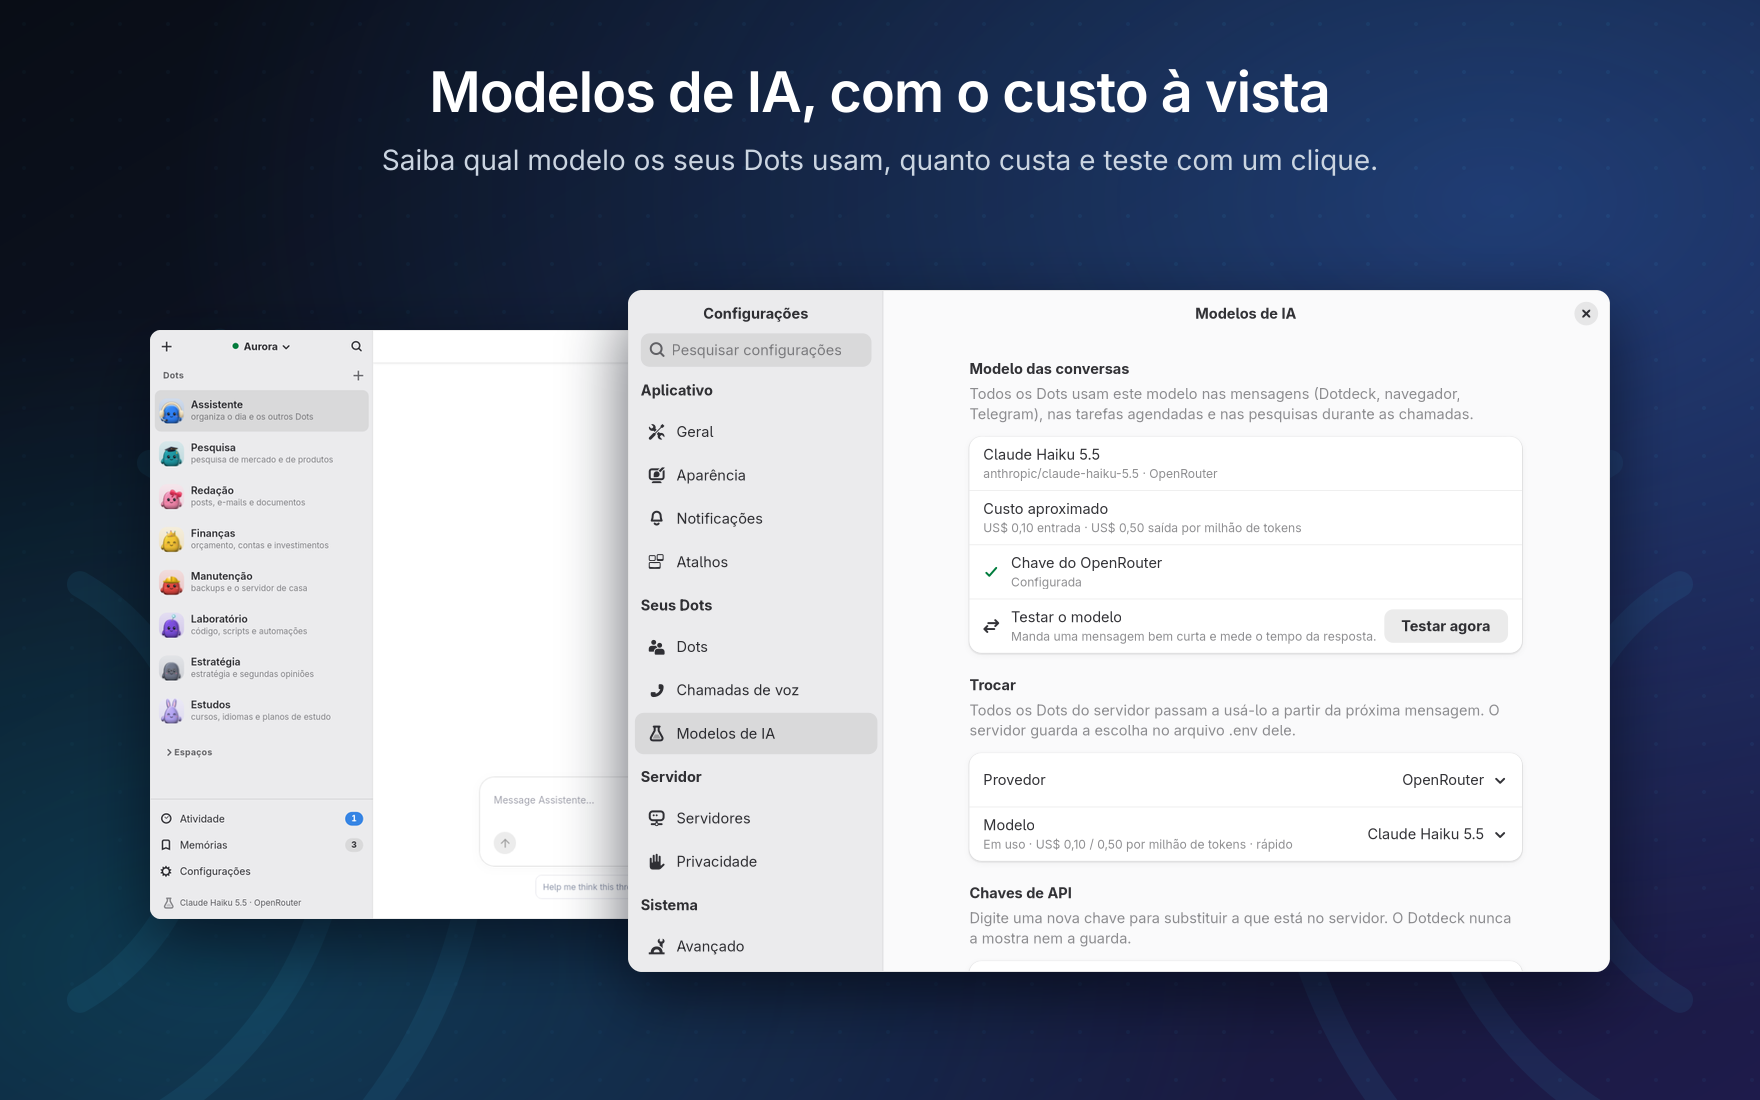
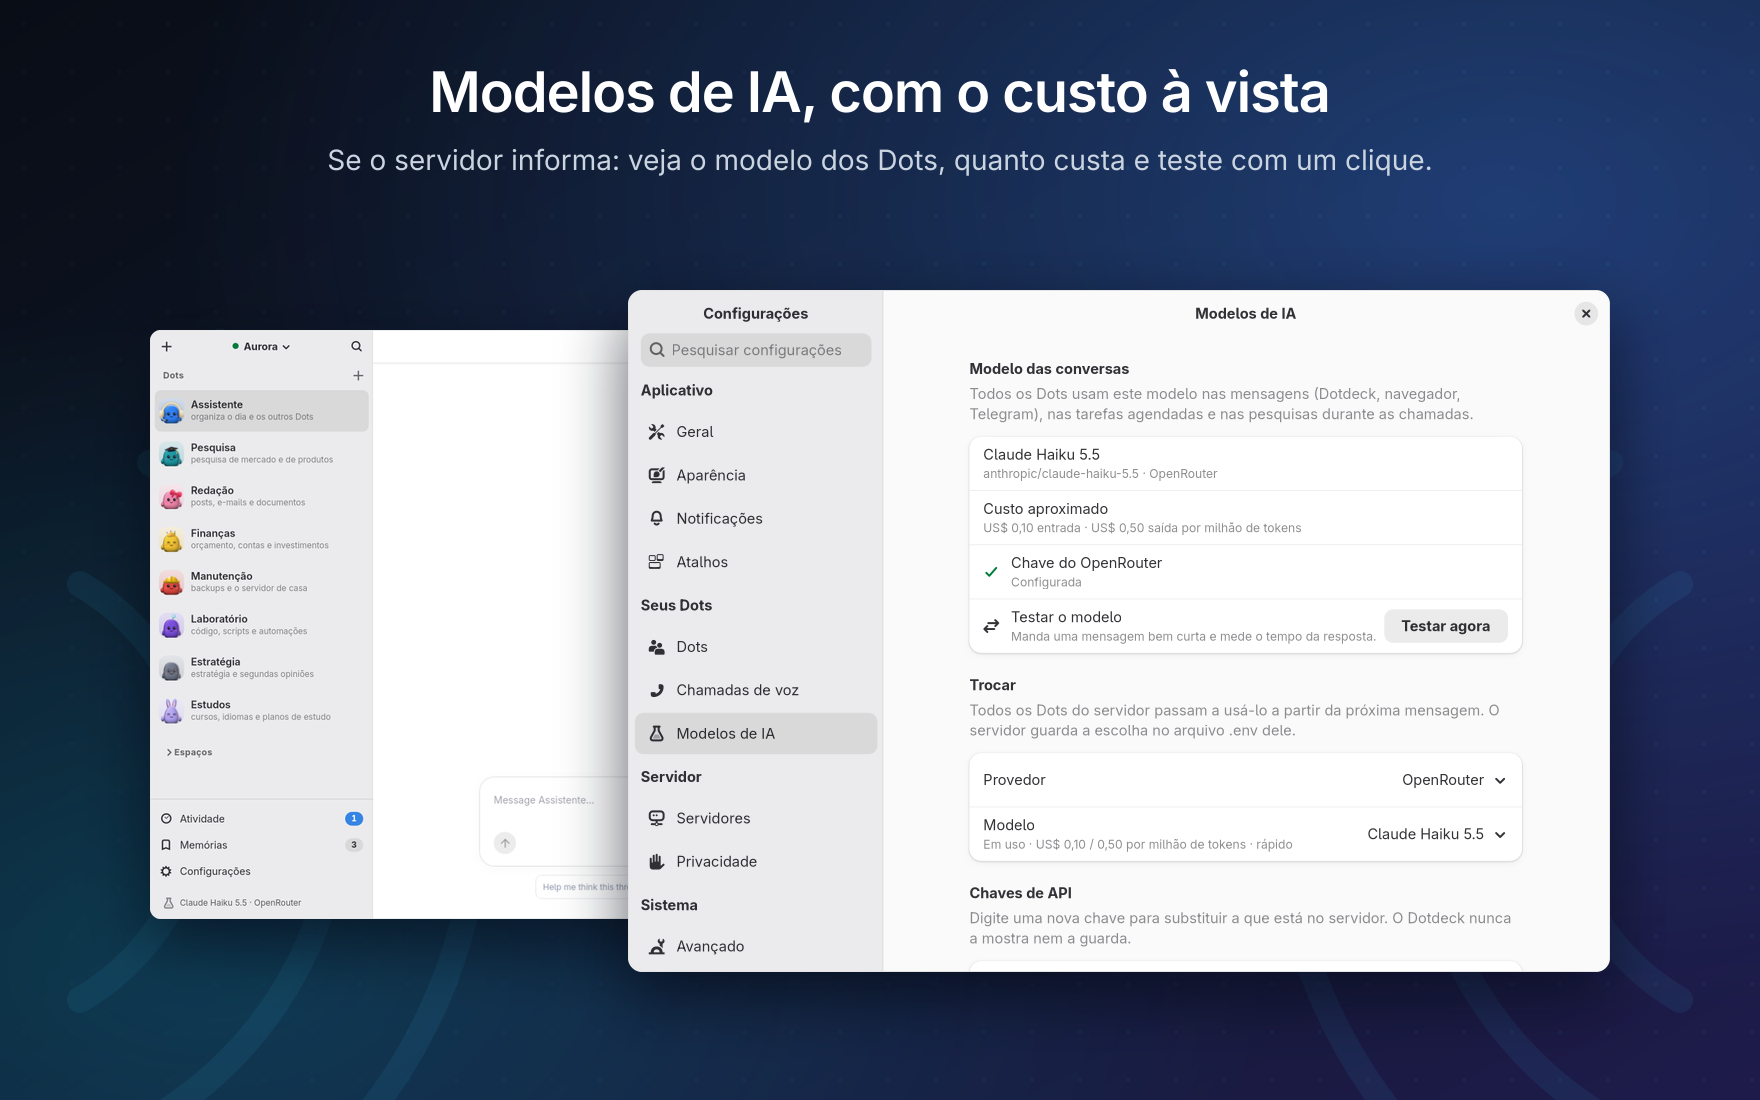
fix(loja): imagem de Modelos de IA diz que o custo depende do servidor
No OpenDots padrão o servidor não informa os modelos; só o fork com a ponte
do Dotdeck mostra provedor, preço e teste. A loja é pública: a legenda não
promete o que um servidor comum não entrega.

Changed region(s): [[0.1875, 0.1236, 0.8125, 0.1545]]

diff --git a/tools/store_assets.py b/tools/store_assets.py
@@ -65,7 +65,7 @@ SLIDES = (
           "Doze pets de pelúcia. Escolha na galeria ou deixe o Dotdeck escolher pela função.",
           (Window("pets.png", 276, 238, 0.9),)),
     Slide("3-modelos-de-ia", "Modelos de IA, com o custo à vista",
-          "Saiba qual modelo os seus Dots usam, quanto custa e teste com um clique.",
+          "Se o servidor informa: veja o modelo dos Dots, quanto custa e teste com um clique.",
           (Window("workspace.png", 150, 330, 0.7), Window("settings-model.png", 628, 290))),
     Slide("4-chamadas", "Ligue para os seus Dots",
           "Chamadas de voz com cancelamento de eco, no tema claro ou no escuro.",
